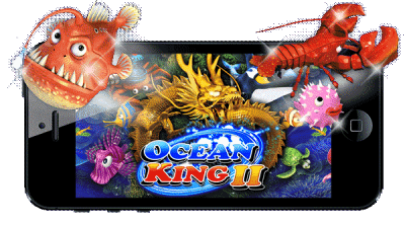
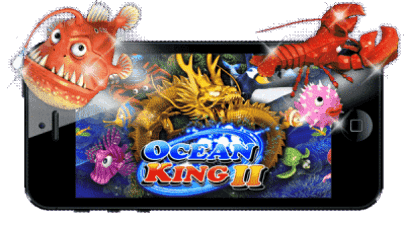
ลดขนาดรูปเกือบทั้งหมด

diff --git a/src/main.js b/src/main.js
@@ -54,8 +54,6 @@ function Main() {
 
       <DetailsComponent />
 
-      
-
       <div className="view_port">
         <div className="cylon_eye" />
       </div>
@@ -88,7 +86,7 @@ function Main() {
               <li className="bg-gamelabel popup">
                 <a-nav href="#">
                   <img
-                    className="img-box1"
+                    className="img-box1 rounded-circle"
                     src="img/gametest/OngBak.png"
                     onMouseOver={show1}
                     onClick={show1}
@@ -99,8 +97,8 @@ function Main() {
               <li className="bg-gamelabel popup">
                 <a-nav href="#">
                   <img
-                    className="img-box1"
-                    src="img/gametest/2.png"
+                    className="img-box1 rounded-circle"
+                    src="img/gametest/2.jpg"
                     onMouseOver={show2}
                     onClick={show2}
                     alt="WATAFAK888"
@@ -110,8 +108,8 @@ function Main() {
               <li className="bg-gamelabel popup">
                 <a-nav href="#">
                   <img
-                    className="img-box1"
-                    src="img/gametest/3.png"
+                    className="img-box1 rounded-circle"
+                    src="img/gametest/3.jpg"
                     onMouseOver={show3}
                     onClick={show3}
                     alt="WATAFAK888"
@@ -121,8 +119,8 @@ function Main() {
               <li className="bg-gamelabel popup">
                 <a-nav href="#">
                   <img
-                    className="img-box1"
-                    src="img/gametest/4.png"
+                    className="img-box1 rounded-circle"
+                    src="img/gametest/4.jpg"
                     onMouseOver={show4}
                     onClick={show4}
                     alt="WATAFAK888"
@@ -132,8 +130,8 @@ function Main() {
               <li className="bg-gamelabel popup">
                 <a-nav href="#">
                   <img
-                    className="img-box1"
-                    src="img/gametest/5.png"
+                    className="img-box1 rounded-circle"
+                    src="img/gametest/5.jpg"
                     onMouseOver={show5}
                     onClick={show5}
                     alt="WATAFAK888"
@@ -148,7 +146,7 @@ function Main() {
                     <div className="container">
                       <img
                         src="img/gametest/OngBak.png"
-                        className="rounded-lg blockgame"
+                        className="rounded-circle blockgame"
                         alt="watafak game test"
                       />
                     </div>
@@ -164,8 +162,8 @@ function Main() {
                   <div id="game2" className="hide">
                     <div className="container">
                       <img
-                        src="img/gametest/2.png"
-                        className="rounded-bottom blockgame"
+                        src="img/gametest/2.jpg"
+                        className="rounded-circle blockgame"
                         alt="watafak game test"
                       />
                     </div>
@@ -181,7 +179,7 @@ function Main() {
                   <div id="game3" className="hide">
                     <div className="container">
                       <img
-                        src="img/gametest/3.png"
+                        src="img/gametest/3.jpg"
                         className="rounded-circle blockgame"
                         alt="watafak game test"
                       />
@@ -198,7 +196,7 @@ function Main() {
                   <div id="game4" className="hide">
                     <div className="container">
                       <img
-                        src="img/gametest/4.png"
+                        src="img/gametest/4.jpg"
                         className="rounded-circle blockgame"
                         alt="watafak game test"
                       />
@@ -215,7 +213,7 @@ function Main() {
                   <div id="game5" className="hide">
                     <div className="container">
                       <img
-                        src="img/gametest/5.png"
+                        src="img/gametest/5.jpg"
                         className="rounded-circle blockgame"
                         alt="watafak game test"
                       />
@@ -251,7 +249,7 @@ function Main() {
             <h1 className="float-left">บทความ Watafak88</h1>
             <div className="carousel-inner d-block">
               <div className="carousel-item active">
-                <div className="row col-12">
+                <div className="row col-12 pl-2 pr-2">
                   <div className="col-6">
                     <img
                       src="img/article/roma_art.jpg"
@@ -310,7 +308,7 @@ function Main() {
                 <div className="row col-12 pl-2 pr-2">
                   <div className="col-6">
                     <img
-                      src="img/article/ongbak-article1.png"
+                      src="img/article/pg.png"
                       className="d-block"
                       alt="..."
                       style={{ width: '100%' }}
